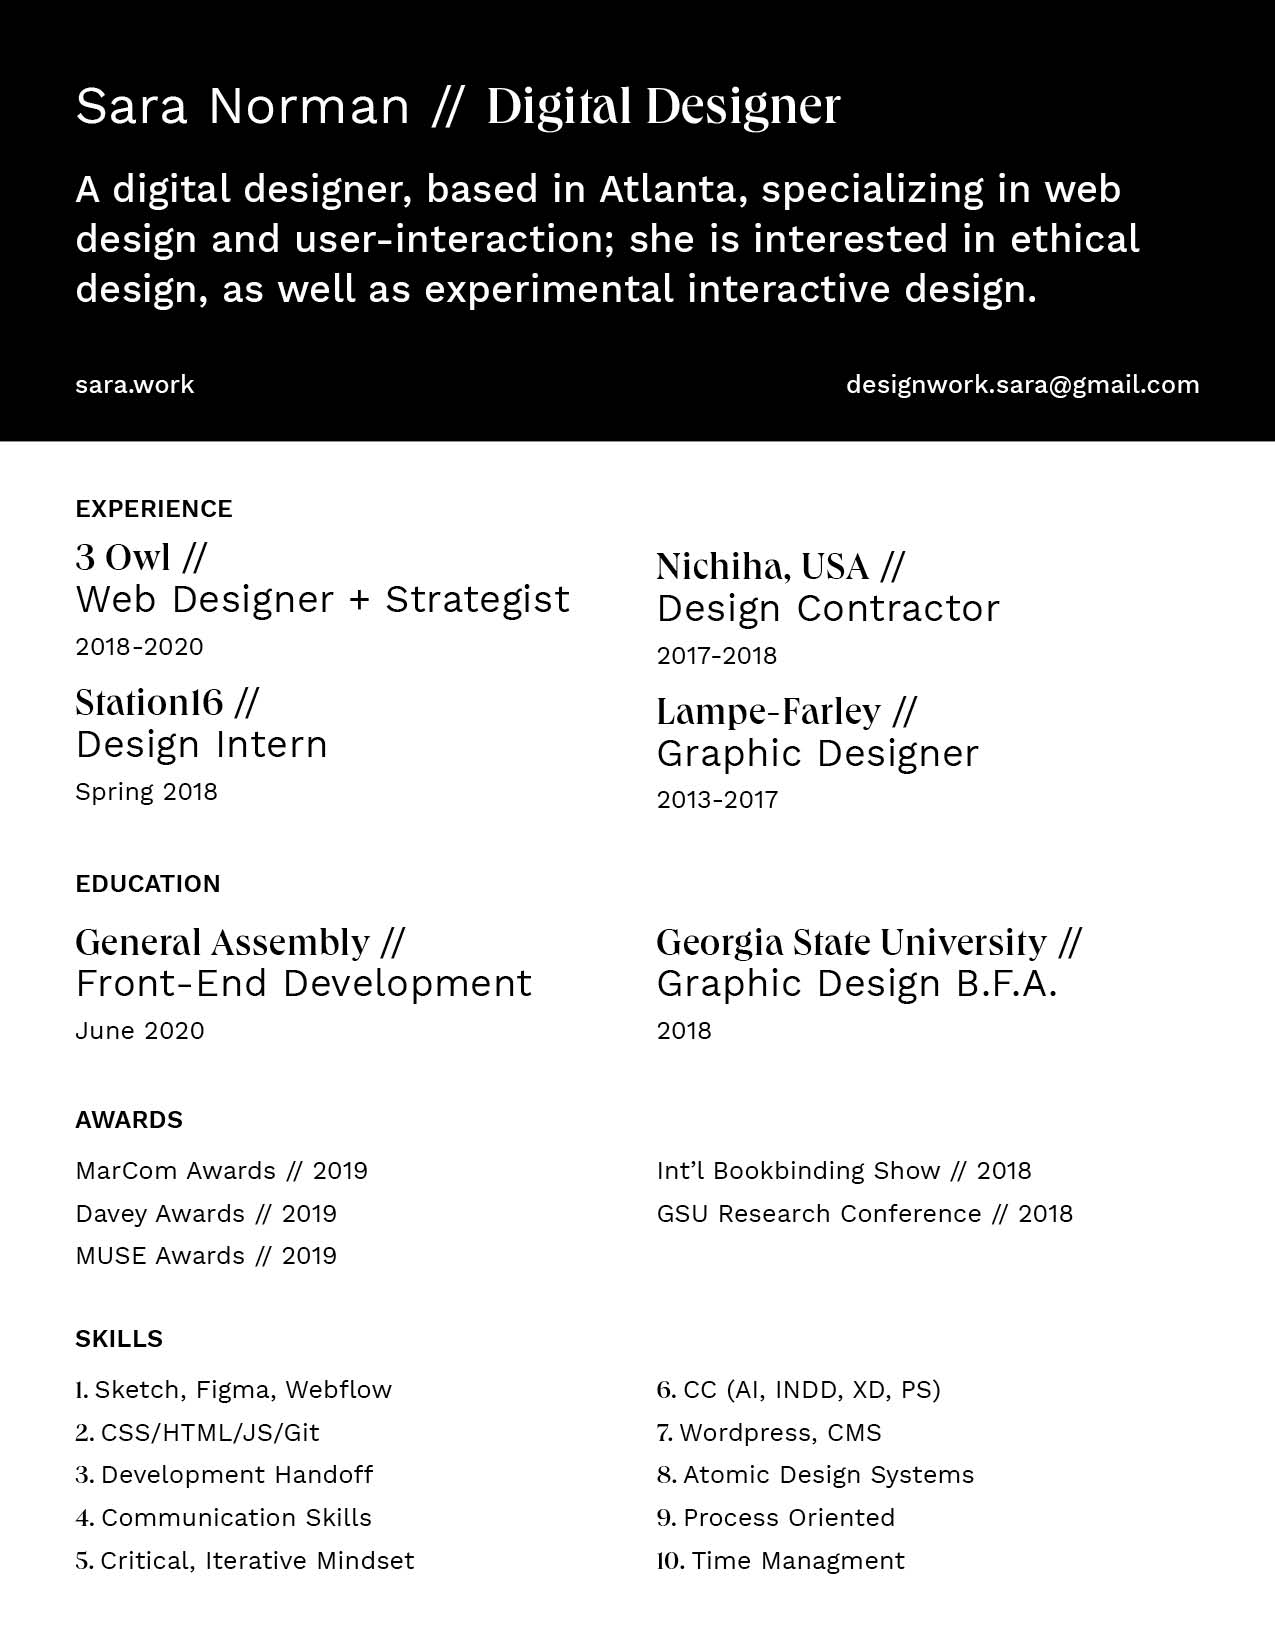
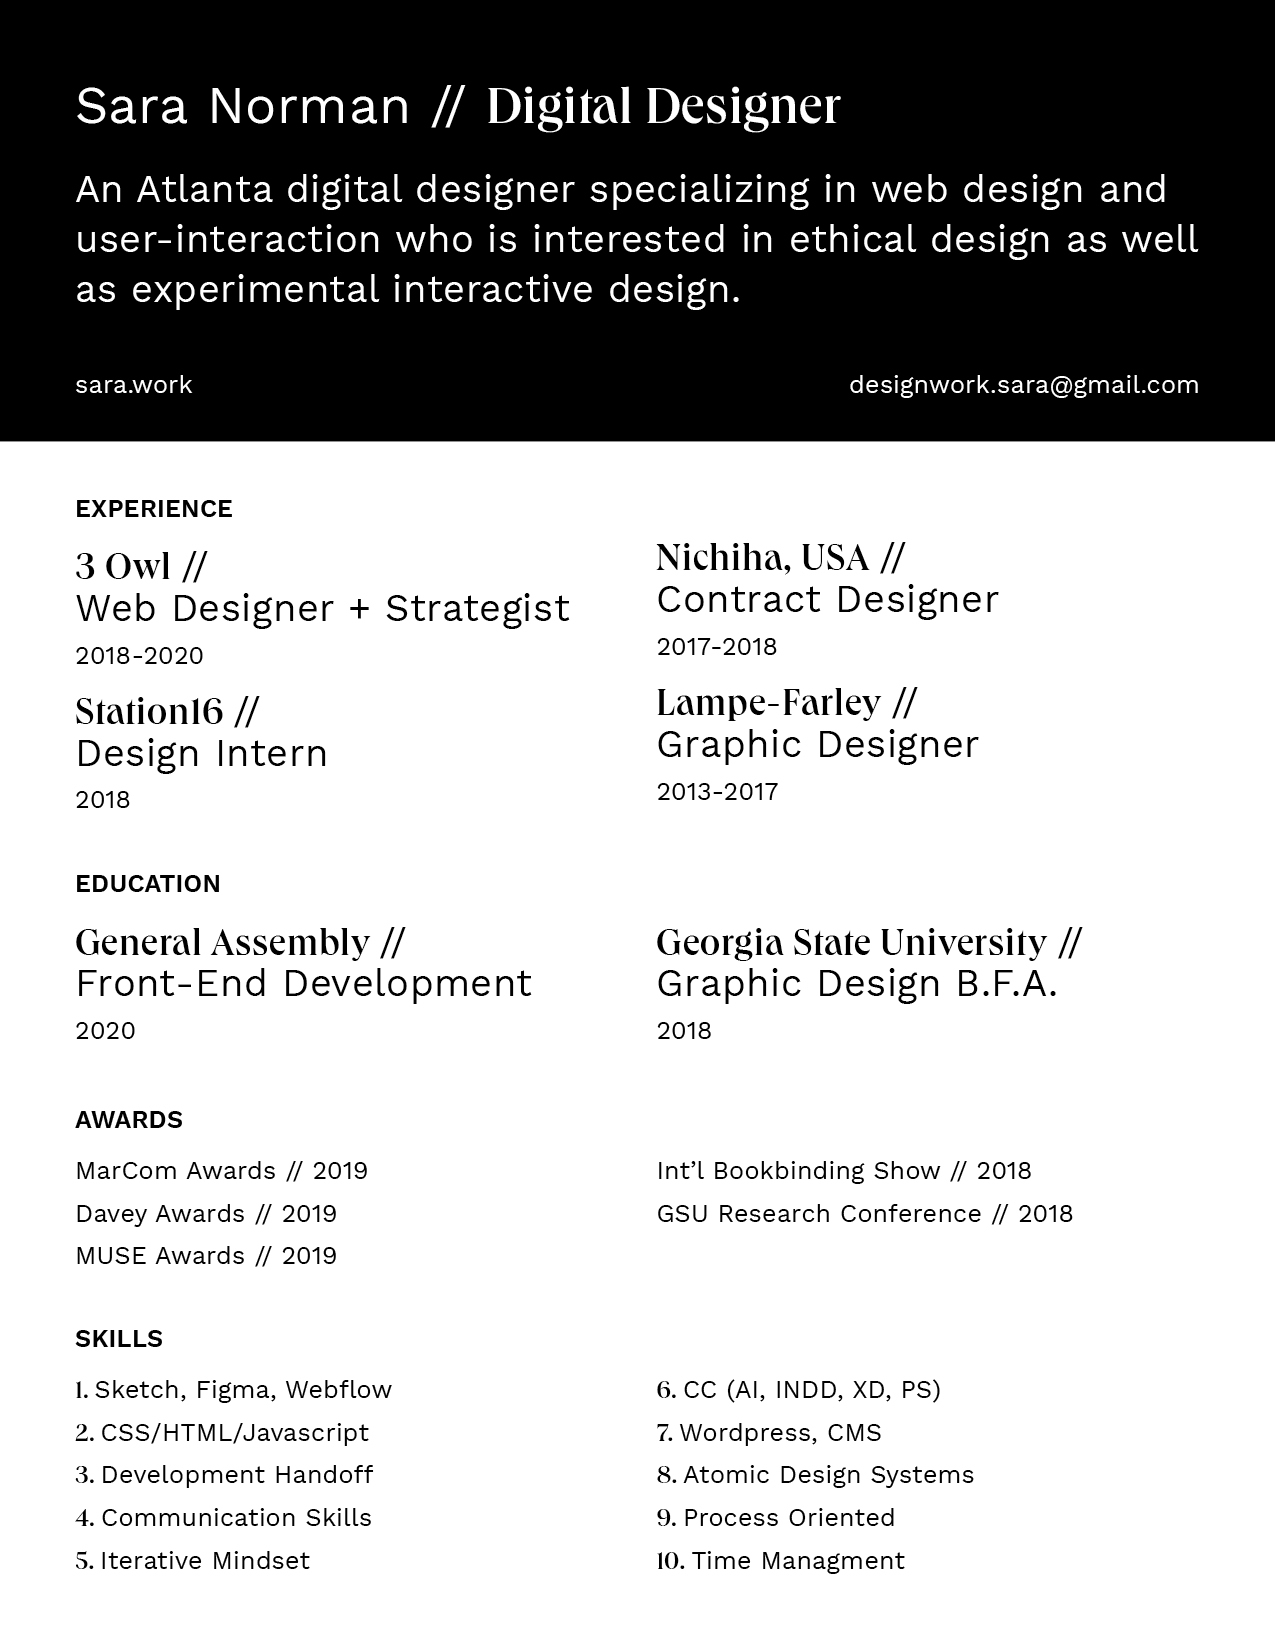
Sara's changes by Jack

diff --git a/index.html b/index.html
@@ -32,7 +32,7 @@
 				</div>
 				<div class="home-text-bottom">
 				<h2 class="home-text-bottom-right">
-					Based in Atlanta, Sara Norman is a digital designer specializing in web design and user-interaction; she is interested in ethical design, as well as experimental interactive design.
+					An Atlanta digital designer specializing in web design and user-interaction who is interested in ethical design as well as experimental interactive design.
 					</h2>
 					<a class="home-text-bottom-work" href="/index.html#work">View Recent Work ↓</a>
 				</div>

diff --git a/about-contact.html b/about-contact.html
@@ -131,7 +131,7 @@
 					<li><span class="serif">2.</span>&nbsp; CSS/HTML/JS/Git</li>
 					<li><span class="serif">3.</span>&nbsp; Development Handoff</li>
 					<li><span class="serif">4.</span>&nbsp; Communication Skills</li>
-					<li class="divider none"><span class="serif">5.</span>&nbsp; Critical, Iterative Mindset</li>
+					<li class="divider none"><span class="serif">5.</span>&nbsp; Iterative Mindset</li>
 				</ul>
 				<ul class="info-list skills">
 					<li><span class="serif">6.</span>&nbsp; CC (AI, INDD, XD, PS)</li>

diff --git a/css/text-styles.css b/css/text-styles.css
@@ -292,6 +292,7 @@ nav a:hover {
 }
 .columns a{
     font-size: 1.25vw;
+    line-height: 2.125;
 }
 .columns p{
     font-size: 1.25vw;
